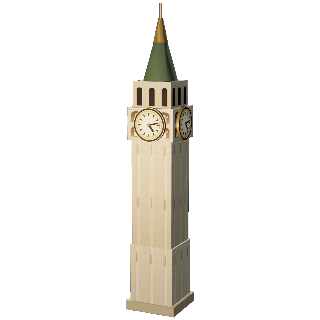
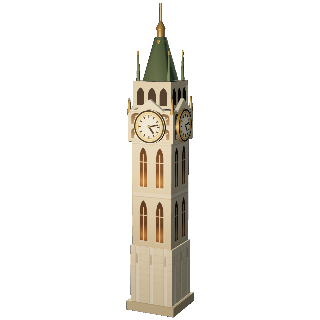
Rebuild Brooklyn Bridge, Big Ben, Coit Tower and the Painted Ladies
Brooklyn Bridge. Seen side-on, what makes it Brooklyn is the web of
diagonal stays fanning from each tower top, and the old model had none.
Now it has four fans (a new 'fan' shape), towers that rise well clear of
the deck, masonry anchorages instead of ramps, and the timber promenade.
The towers are cut right through with their twin pointed Gothic arches,
turned the way the real ones are, with the roadway passing through
them. That is why the arches show as the camera comes round rather than
head-on, and why its goal image is taken from further round (a new
&yaw= on the render route).

Big Ben. Same thirteen pieces, carrying more. Gothic panelling on the
shaft; gablets and gold pinnacles arriving with the clock stage; the
belfry as a real open arcade of pointed arches round a dark core; the
spire's four corner pinnacles; and the Ayrton Light lantern as a lathed
piece.

Coit Tower. Real ribs for the flutes instead of a painted stripe, one
set per lift of the shaft; the two-storey base building; the gallery
stacked flush on the shaft.

Painted Ladies. Each house now arrives with a three-sided bay window, a
cornice band and corner boards in a contrasting trim colour, and a
stoop. Each roof arrives with carved bargeboards and a gable window.
Roofs stay dark slate; the colour lives in the walls and trim, as on
Steiner Street.

Extrude openings can now be pointed ('pointed' arch: two arcs, each
centred on the opposite springing point).
[…]

diff --git a/src/puzzle/landmarks.js b/src/puzzle/landmarks.js
@@ -72,16 +72,39 @@ function eifleg(x0, z0, x1, z1, h, r, c, y0 = 0) {
     c, 'eifleg', { leg: { x0, z0, x1, z1, h, r, y0 }, em: '#ff9d5a', emI: 0.08 });
 }
 
-// Painted Ladies row house: a narrow gabled body with a bay window bulge.
-// `roofI` picks between two slate tones. They are deliberately close: San
-// Francisco's Victorians are painted in every colour but their roofs are all
-// dark slate, so the variety belongs in the walls, not the roofline.
-function ladyHouse(x, body, bay, roofI) {
+// Painted Ladies row house: the body, and the gable roof above it. The body
+// arrives with what makes it a Victorian: a three-sided bay window running
+// up both storeys, a cornice band in the trim colour, and a stoop. The roof
+// arrives with its carved bargeboards and a gable window. The trim colour
+// is half of what "painted" means here — every house is in two or three
+// colours, not one.
+function ladyHouse(x, body, trim, roofI) {
   const roof = ['#403c38', '#4a4640'][roofI];
+  // the bay: a trapezoid extruded upward (rotX turns the extrusion to vertical)
+  const bay = (y, h) => B([0, y, 2.62], [2.1, 0.84, h], body, 'extrude', {
+    rotX: Math.PI / 2, outline: [[-0.5, -0.5], [0.5, -0.5], [0.3, 0.5], [-0.3, 0.5]],
+  });
+  const win = (bx, y) => B([bx, y, 3.06], [0.62, 1.2, 0.05], '#4d6278');
   return [
-    B([x, 4.1, 0], [3.4, 8.2, 4.4], body, 'box', { tex: 'win', tx: { cols: 2, rows: 4 } }),
-    B([x, 5.0, 2.5], [2.1, 5.2, 1.1], bay, 'box', { tex: 'win', tx: { cols: 1, rows: 3 } }),
-    B([x, 10.0, 0], [3.7, 3.6, 4.4], roof, 'prism'),
+    B([x, 4.1, 0], [3.4, 8.2, 4.4], body, 'box', {
+      tex: 'win', tx: { cols: 2, rows: 4 },
+      adorn: [
+        bay(-0.4, 5.6),
+        win(0, 0.9), win(0, -1.9),
+        B([0, 2.35, 3.05], [1.4, 0.18, 0.1], trim),        // bay cornice
+        B([0, 4.0, 0.1], [3.62, 0.34, 4.6], trim),          // cornice band
+        B([-1.72, 0, 2.21], [0.14, 8.2, 0.08], trim),       // corner boards
+        B([1.72, 0, 2.21], [0.14, 8.2, 0.08], trim),
+        B([1.05, -3.75, 2.7], [1.0, 0.7, 1.0], trim),       // stoop
+      ],
+    }),
+    B([x, 10.0, 0], [3.7, 3.6, 4.4], roof, 'prism', {
+      adorn: [
+        B([-0.925, 0, 2.24], [4.05, 0.22, 0.1], trim, 'box', { rotZ: 1.096 }),
+        B([0.925, 0, 2.24], [4.05, 0.22, 0.1], trim, 'box', { rotZ: -1.096 }),
+        B([0, -0.55, 2.23], [0.7, 0.9, 0.06], '#4d6278'),
+      ],
+    }),
   ];
 }
 
@@ -134,25 +157,61 @@ const defs = {
     B([0, 21.3, 0], [0.13, 2.9, 0.13], '#f4f7fb', 'cyl', { metal: 1, em: '#fff2d8', emI: 0.35 }),
   ],
 
-  // Brooklyn Bridge: scaled up ~30%, deck approach ramps reaching the plaza
-  // edges, main catenary cables 3x thicker (suspenders stay thin).
+  // Brooklyn Bridge. Seen side-on, what makes it Brooklyn is the WEB: the
+  // diagonal stays that fan out from each tower top across the main cables,
+  // which the old model did not have at all. The granite towers are cut
+  // right through with their twin pointed Gothic arches — oriented as the
+  // real ones are, with the roadway passing THROUGH them, so they show as
+  // the camera comes round. Towers rise well clear of the deck, and the
+  // cables land on masonry anchorages rather than on ramps into the plaza.
   brooklyn: [
-    B([-10.8, 2.2, 0], [2.5, 3.4, 4.3], '#a89a80', 'box', { tex: 'relief' }),
-    B([10.8, 2.2, 0], [2.5, 3.4, 4.3], '#a89a80', 'box', { tex: 'relief' }),
-    // approach ramps sloping down to the plaza edges
-    B([-14.9, 2.2, 0], [7.0, 0.6, 3.9], '#7d6f5a', 'box', { rotZ: -0.35 }),
-    B([14.9, 2.2, 0], [7.0, 0.6, 3.9], '#7d6f5a', 'box', { rotZ: 0.35 }),
-    B([-7.4, 3.4, 0], [7.2, 0.6, 3.9], '#867860'),
-    B([0, 3.4, 0], [8.1, 0.6, 3.9], '#93846c'),
-    B([7.4, 3.4, 0], [7.2, 0.6, 3.9], '#867860'),
-    B([-6.0, 7.0, 0], [3.3, 8.6, 4.3], '#b2a488', 'box', { tex: 'gothic' }),
-    B([6.0, 7.0, 0], [3.3, 8.6, 4.3], '#b2a488', 'box', { tex: 'gothic' }),
-    B([-6.0, 11.6, 0], [3.8, 0.65, 4.8], '#c4b294'),
-    B([6.0, 11.6, 0], [3.8, 0.65, 4.8], '#c4b294'),
-    B([0, 3.5, 1.7], [22.6, 0.7, 0.3], '#efeadb', 'cable',
-      { sortY: 12, cable: { towerX: 6.0, topY: 11.2, midY: 4.35, endX: 11.2, endY: 3.5, deckY: 3.7, hangers: 11, r: 0.27 } }),
-    B([0, 3.5, -1.7], [22.6, 0.7, 0.3], '#efeadb', 'cable',
-      { sortY: 12, cable: { towerX: 6.0, topY: 11.2, midY: 4.35, endX: 11.2, endY: 3.5, deckY: 3.7, hangers: 11, r: 0.27 } }),
+    // tower foundations and the two masonry anchorages
+    B([-6.2, 0.6, 0], [3.4, 1.2, 5.4], '#9d917b', 'box', { tex: 'relief' }),
+    B([6.2, 0.6, 0], [3.4, 1.2, 5.4], '#9d917b', 'box', { tex: 'relief' }),
+    B([-12.6, 2.1, 0], [3.2, 4.2, 5.0], '#a89a80', 'box', { tex: 'ashlar' }),
+    B([12.6, 2.1, 0], [3.2, 4.2, 5.0], '#a89a80', 'box', { tex: 'ashlar' }),
+    // the deck, with the raised timber promenade down its middle
+    B([-8.9, 3.7, 0], [5.4, 0.5, 4.0], '#6f675d'),
+    B([8.9, 3.7, 0], [5.4, 0.5, 4.0], '#6f675d'),
+    B([0, 3.7, 0], [9.0, 0.5, 4.0], '#766d62', 'box', {
+      adorn: [B([0, 0.42, 0], [9.0, 0.16, 1.2], '#b08a5c')],
+    }),
+    // granite towers: an extruded face with two pointed arches cut through,
+    // turned so the roadway runs through the arches
+    ...[-6.2, 6.2].map((x) => B([x, 6.9, 0], [4.8, 11.6, 2.8], '#b9aa8e', 'extrude', {
+      rotY: Math.PI / 2,
+      outline: [[-0.5, -0.5], [0.5, -0.5], [0.5, 0.5], [-0.5, 0.5]],
+      holes: [
+        { x: -0.22, y: -0.07, w: 0.25, h: 0.4, arch: 'pointed' },
+        { x: 0.22, y: -0.07, w: 0.25, h: 0.4, arch: 'pointed' },
+      ],
+      adorn: [
+        // cornice and crown across the top of the tower
+        B([0, 5.95, 0], [5.0, 0.45, 3.0], '#c9ba9c'),
+        B([0, 6.35, 0], [4.6, 0.4, 2.6], '#b3a488'),
+        // the narrow faces are what the camera sees side-on. A tall sunk
+        // panel and three string courses stop them reading as blank slabs.
+        // (Local x is across the bridge here: the tower is turned 90deg.)
+        ...[-1, 1].flatMap((sd) => [
+          B([sd * 2.42, 0.8, 0], [0.06, 7.8, 1.5], '#9e9078'),
+          ...[-3.9, -0.9, 3.9].map((y) => B([sd * 2.43, y, 0], [0.08, 0.26, 2.8], '#cbbc9e')),
+        ]),
+      ],
+    })),
+    // the four main cables, hung after the towers
+    B([0, 3.9, 1.7], [25.2, 0.7, 0.3], '#e6e0d0', 'cable',
+      { sortY: 12.5, cable: { towerX: 6.2, topY: 12.9, midY: 4.6, endX: 12.4, endY: 4.0, deckY: 4.0, hangers: 13, r: 0.2 } }),
+    B([0, 3.9, -1.7], [25.2, 0.7, 0.3], '#e6e0d0', 'cable',
+      { sortY: 12.5, cable: { towerX: 6.2, topY: 12.9, midY: 4.6, endX: 12.4, endY: 4.0, deckY: 4.0, hangers: 13, r: 0.2 } }),
+    // the web: stays fanning from each tower top, inward and outward
+    B([-3.4, 8.3, 0], [5.8, 9.2, 3.6], '#ddd6c4', 'fan',
+      { sortY: 13, fan: { ax: -2.8, ay: 4.4, x0: -2.0, x1: 2.6, deckY: -4.4, n: 6, z: 1.7, r: 0.06 } }),
+    B([3.4, 8.3, 0], [5.8, 9.2, 3.6], '#ddd6c4', 'fan',
+      { sortY: 13, fan: { ax: 2.8, ay: 4.4, x0: 2.0, x1: -2.6, deckY: -4.4, n: 6, z: 1.7, r: 0.06 } }),
+    B([-9.2, 8.3, 0], [5.8, 9.2, 3.6], '#ddd6c4', 'fan',
+      { sortY: 13, fan: { ax: 3.0, ay: 4.4, x0: 2.2, x1: -2.4, deckY: -4.4, n: 6, z: 1.7, r: 0.06 } }),
+    B([9.2, 8.3, 0], [5.8, 9.2, 3.6], '#ddd6c4', 'fan',
+      { sortY: 13, fan: { ax: -3.0, ay: 4.4, x0: -2.2, x1: 2.4, deckY: -4.4, n: 6, z: 1.7, r: 0.06 } }),
   ],
 
   // ================= PARIS =================
@@ -260,23 +319,56 @@ const defs = {
   ],
 
   // ================= LONDON =================
-  // Big Ben: limestone ashlar panels with gothic ribs, glowing warm-ivory
-  // clock faces with bold hands and a gold ring, stretched belfry.
+  // Big Ben (the Elizabeth Tower). The pieces are the same thirteen; what
+  // changed is what they carry. The shaft is Gothic panelling rather than
+  // plain ashlar above the base; each clock stage arrives with its gablets
+  // and corner pinnacles; the belfry is a real open arcade of pointed arches
+  // round a dark core; and the iron spire carries its four corner pinnacles
+  // and the Ayrton Light lantern below the finial.
   bigben: [
     B([0, 0.35, 0], [4.0, 0.7, 4.0], '#b6ab8d'),                 // plinth
     B([0, 2.9, 0], [3.5, 4.4, 3.5], '#d4c9a8', 'box', { tex: 'ashlar' }),
-    B([0, 7.2, 0], [3.25, 4.2, 3.25], '#cbbf9e', 'box', { tex: 'ashlar' }),
-    B([0, 11.3, 0], [3.25, 4.0, 3.25], '#d4c9a8', 'box', { tex: 'ashlar' }),
-    B([0, 14.35, 0], [3.7, 2.4, 3.7], '#ded3b0', 'box', { tex: 'relief', em: '#ffd9a0', emI: 0.14 }),
+    B([0, 7.2, 0], [3.25, 4.2, 3.25], '#cbbf9e', 'box', { tex: 'gothic' }),
+    B([0, 11.3, 0], [3.25, 4.0, 3.25], '#d4c9a8', 'box', { tex: 'gothic' }),
+    B([0, 14.35, 0], [3.7, 2.4, 3.7], '#ded3b0', 'box', {
+      tex: 'relief', em: '#ffd9a0', emI: 0.14,
+      adorn: [
+        // a gablet over each clock face
+        B([0, 1.55, 1.78], [2.4, 0.9, 0.3], '#e2d7b4', 'prism'),
+        B([0, 1.55, -1.78], [2.4, 0.9, 0.3], '#e2d7b4', 'prism'),
+        B([1.78, 1.55, 0], [2.4, 0.9, 0.3], '#e2d7b4', 'prism', { rotY: Math.PI / 2 }),
+        B([-1.78, 1.55, 0], [2.4, 0.9, 0.3], '#e2d7b4', 'prism', { rotY: Math.PI / 2 }),
+        // corner pinnacles, gold-tipped
+        ...[[1, 1], [1, -1], [-1, 1], [-1, -1]].map(([a, b]) => B([a * 1.75, 1.5, b * 1.75], [0.34, 1.1, 0.34], '#cfae6c', 'cone4', { metal: 1 })),
+      ],
+    }),
     B([0, 14.35, 1.93], [2.55, 2.55, 0.22], '#f8f1da', 'clock'),
     B([0, 14.35, -1.93], [2.55, 2.55, 0.22], '#f8f1da', 'clock'),
     B([1.93, 14.35, 0], [2.55, 2.55, 0.22], '#f8f1da', 'clock', { rotY: Math.PI / 2 }),
     B([-1.93, 14.35, 0], [2.55, 2.55, 0.22], '#f8f1da', 'clock', { rotY: Math.PI / 2 }),
-    // belfry stretched ~20%
-    B([0, 16.5, 0], [3.05, 1.95, 3.05], '#cbbf9e', 'box', { tex: 'arch', tx: { n: 3 } }),
-    B([0, 19.05, 0], [2.75, 3.2, 2.75], '#5e7258', 'cone4'),
-    B([0, 21.15, 0], [1.15, 1.75, 1.15], '#cfae6c', 'cone4', { metal: 1, em: '#ffd9a0', emI: 0.45 }),
-    B([0, 22.5, 0], [0.18, 1.3, 0.18], '#e6d29e', 'cyl', { metal: 1, em: '#ffd9a0', emI: 0.55 }),
+    // belfry: a dark core behind four arcaded screens of pointed arches
+    B([0, 16.65, 0], [3.05, 1.95, 3.05], '#3d3a35', 'box', {
+      adorn: [
+        ...[[0, 1.46, 0], [0, -1.46, 0], [1.46, 0, Math.PI / 2], [-1.46, 0, Math.PI / 2]].map(([x, z, r]) =>
+          B([x, 0, z], [3.1, 1.95, 0.14], '#d4c9a8', 'extrude', {
+            rotY: r,
+            outline: [[-0.5, -0.5], [0.5, -0.5], [0.5, 0.5], [-0.5, 0.5]],
+            holes: [-0.3, 0, 0.3].map((hx) => ({ x: hx, y: -0.06, w: 0.2, h: 0.66, arch: 'pointed' })),
+          })),
+      ],
+    }),
+    // cast-iron spire, with its four corner pinnacles
+    B([0, 19.25, 0], [2.85, 3.2, 2.85], '#5a6d55', 'cone4', {
+      adorn: [[1, 1], [1, -1], [-1, 1], [-1, -1]].map(([a, b]) => B([a * 1.25, -0.6, b * 1.25], [0.3, 2.0, 0.3], '#6f8568', 'cone4', {
+        adorn: [B([0, 1.05, 0], [0.12, 0.3, 0.12], '#cfae6c', 'cyl', { metal: 1 })],
+      })),
+    }),
+    // the Ayrton Light: a small lantern, lit when Parliament sits
+    B([0, 21.2, 0], [1.1, 1.8, 1.1], '#cfae6c', 'lathe', {
+      profile: [[0.8, 0], [0.8, 0.18], [0.55, 0.22], [0.55, 0.6], [0.72, 0.64], [0.3, 0.88], [0.08, 1]],
+      seg: 8, metal: 1, em: '#ffd9a0', emI: 0.5,
+    }),
+    B([0, 22.7, 0], [0.18, 1.3, 0.18], '#e6d29e', 'cyl', { metal: 1, em: '#ffd9a0', emI: 0.55 }),
   ],
 
   // Tower Bridge: pale stone towers with corner turrets, saturated
@@ -434,43 +526,47 @@ const defs = {
       { sortY: 19, cable: { towerX: 6.4, topY: 17.2, midY: 5.0, endX: 13.4, endY: 3.9, deckY: 4.0, hangers: 13, r: 0.17 } }),
   ],
 
-  // Coit Tower: a plain unpainted-concrete fluted column. The real thing is
-  // pale grey-cream, not white, and is NOT shaped like a fire-hose nozzle —
-  // that is a myth, so the shaft stays a clean taper. 'strip' gives the
-  // fluting; 'archcut' punches the observation-deck arches through.
+  // Coit Tower: a plain unpainted-concrete fluted column, pale grey-cream,
+  // and NOT shaped like a fire-hose nozzle — that is a myth. The flutes are
+  // real ribs now, arriving with each lift of the shaft, not a painted
+  // stripe; the gallery is a ring of tall round-headed openings; and it
+  // stands on the two-storey base building where the 1934 murals are.
   coit: [
-    B([0, 0.4, 0], [5.2, 0.8, 5.2], '#b7b1a4'),
-    B([0, 1.6, 0], [4.2, 1.6, 4.2], '#c3bdae', 'cyl'),
-    B([0, 2.6, 2.0], [1.3, 2.0, 0.5], '#a8a294', 'box', { tex: 'arch' }),
-    B([0, 3.6, 0], [3.5, 2.2, 3.5], '#d2ccbd', 'cyl', { tex: 'strip' }),
-    B([0, 5.8, 0], [3.4, 2.2, 3.4], '#d4cec0', 'cyl', { tex: 'strip' }),
-    B([0, 8.0, 0], [3.3, 2.2, 3.3], '#d2ccbd', 'cyl', { tex: 'strip' }),
-    B([0, 10.2, 0], [3.2, 2.2, 3.2], '#d4cec0', 'cyl', { tex: 'strip' }),
-    B([0, 12.4, 0], [3.05, 2.2, 3.05], '#d2ccbd', 'cyl', { tex: 'strip' }),
-    B([0, 14.6, 0], [2.9, 2.2, 2.9], '#d4cec0', 'cyl', { tex: 'strip' }),
-    B([0, 16.8, 0], [2.8, 2.2, 2.8], '#d2ccbd', 'cyl', { tex: 'strip' }),
-    B([0, 18.2, 0], [3.2, 0.5, 3.2], '#c9c3b4', 'cyl'),
-    B([0, 19.6, 0], [3.3, 2.4, 3.3], '#dcd6c6', 'cyl', { tex: 'archcut' }),
-    B([0, 21.1, 0], [2.9, 0.6, 2.9], '#c9c3b4', 'cyl'),
-    B([0, 21.9, 0], [2.3, 0.9, 2.3], '#d4cec0', 'cyl'),
-    B([0, 22.9, 0], [2.0, 1.1, 2.0], '#dcd6c6', 'dome'),
-    B([0, 24.2, 0], [0.13, 2.4, 0.13], '#efe9da', 'cyl', { metal: 1 }),
-    // hillside lamps either side of the entrance path
-    B([-2.6, 1.5, 2.6], [0.16, 1.8, 0.16], '#8e887c', 'cyl', { em: '#ffe6b0', emI: 0.5 }),
-    B([2.6, 1.5, 2.6], [0.16, 1.8, 0.16], '#8e887c', 'cyl', { em: '#ffe6b0', emI: 0.5 }),
+    // the base building, with its arched entrance
+    B([0, 1.1, 0], [6.6, 2.2, 6.6], '#c3bdae', 'box', {
+      tex: 'arch', tx: { n: 5 },
+      adorn: [B([0, 1.25, 0], [7.0, 0.3, 7.0], '#b7b1a4')],
+    }),
+    // the fluted shaft, in seven lifts, each carrying its own ribs
+    ...[0, 1, 2, 3, 4, 5, 6].map((i) => {
+      const w = 3.5 - i * 0.1;
+      return B([0, 3.3 + i * 2.2, 0], [w, 2.2, w], i % 2 ? '#d4cec0' : '#d2ccbd', 'cyl', {
+        adorn: ring(0, 0, w / 2 + 0.02, 16, [0.12, 2.2, 0.16], '#c6c0b1'),
+      });
+    }),
+    // corbel, then the observation gallery of tall arched openings
+    // stacked flush: the shaft's last lift tops out at 17.7
+    B([0, 17.95, 0], [3.2, 0.5, 3.2], '#c9c3b4', 'cyl'),
+    B([0, 19.4, 0], [3.3, 2.4, 3.3], '#dcd6c6', 'cyl', { tex: 'archcut' }),
+    B([0, 20.9, 0], [2.9, 0.6, 2.9], '#c9c3b4', 'cyl'),
+    B([0, 21.65, 0], [2.3, 0.9, 2.3], '#d4cec0', 'cyl'),
+    B([0, 22.1, 0], [2.0, 1.1, 2.0], '#dcd6c6', 'dome'),
+    B([0, 24.3, 0], [0.13, 2.4, 0.13], '#efe9da', 'cyl', { metal: 1 }),
   ],
 
   // Painted Ladies: seven narrow houses shoulder to shoulder, each its own
   // colour, each with a bay window and a steep gable. The jagged roofline is
   // the whole picture; the colour variety is in the walls, not the roofs.
   paintedladies: [
-    ...ladyHouse(-10.8, '#d8788c', '#e9a0ae', 0),
-    ...ladyHouse(-7.2, '#e8c274', '#f4dca6', 1),
-    ...ladyHouse(-3.6, '#9fc4a8', '#c6ddcb', 0),
-    ...ladyHouse(0, '#8fb4d4', '#bcd4e6', 1),
-    ...ladyHouse(3.6, '#c9a8cc', '#e0cbe2', 0),
-    ...ladyHouse(7.2, '#e2a07c', '#f0c6ad', 1),
-    ...ladyHouse(10.8, '#cfc4b2', '#e6dece', 0),
+    // body and trim colours in the spirit of Steiner Street: each house a
+    // pastel with a contrasting trim, no two neighbours alike
+    ...ladyHouse(-10.8, '#d8788c', '#f4ecd8', 0),
+    ...ladyHouse(-7.2, '#e8c274', '#7a3a4a', 1),
+    ...ladyHouse(-3.6, '#9fc4a8', '#f4ecd8', 0),
+    ...ladyHouse(0, '#8fb4d4', '#e8c274', 1),
+    ...ladyHouse(3.6, '#c9a8cc', '#f4ecd8', 0),
+    ...ladyHouse(7.2, '#e2a07c', '#3f5a6a', 1),
+    ...ladyHouse(10.8, '#cfc4b2', '#8a3a3a', 0),
   ],
 };
 

diff --git a/src/puzzle/puzzle.js b/src/puzzle/puzzle.js
@@ -1277,13 +1277,22 @@ function makeBlockMesh(def, isGhost = false, isChild = false) {
       // cut right through it — real arches you can see the sky through, stepped
       // Art Deco profiles, gables with carved trim. `outline` is [x, y] pairs
       // as fractions of w and h, centred on 0; `holes` are
-      // {x, y, w, h, arch} in the same fractions, x/y being the hole's centre,
-      // and `arch: true` rounds the top into a semicircle.
+      // {x, y, w, h, arch} in the same fractions, x/y being the hole's centre.
+      // `arch: true` rounds the top into a semicircle; `arch: 'pointed'` gives
+      // an equilateral Gothic arch (two arcs, each centred on the opposite
+      // springing point), as on Brooklyn Bridge and the Palace of Westminster.
       const shape = new THREE.Shape(def.outline.map(([x, y]) => new THREE.Vector2(x * w, y * h)));
       for (const o of def.holes || []) {
         const hw = (o.w * w) / 2, cx = o.x * w, y0 = (o.y - o.h / 2) * h, y1 = (o.y + o.h / 2) * h;
         const path = new THREE.Path();
-        if (o.arch) {
+        if (o.arch === 'pointed') {
+          const spring = y1 - Math.sqrt(3) * hw;   // apex sits sqrt(3)*hw above the springing line
+          path.moveTo(cx - hw, y0); path.lineTo(cx + hw, y0);
+          path.lineTo(cx + hw, spring);
+          path.absarc(cx - hw, spring, 2 * hw, 0, Math.PI / 3, false);
+          path.absarc(cx + hw, spring, 2 * hw, 2 * Math.PI / 3, Math.PI, false);
+          path.lineTo(cx - hw, y0);
+        } else if (o.arch) {
           const spring = y1 - hw;                  // where the semicircle begins
           path.moveTo(cx - hw, y0); path.lineTo(cx + hw, y0);
           path.lineTo(cx + hw, spring);
@@ -1297,6 +1306,26 @@ function makeBlockMesh(def, isGhost = false, isChild = false) {
       }
       geo = new THREE.ExtrudeGeometry(shape, { depth: d, bevelEnabled: false, curveSegments: 10 });
       geo.translate(0, 0, -d / 2);
+      break;
+    }
+    case 'fan': {
+      // Stay cables radiating from one point down to a run of points on the
+      // deck, doubled either side of the bridge: Brooklyn Bridge's web.
+      // fan: { ax, ay } apex, { x0, x1, deckY } deck run, n cables, z offset,
+      // r thickness — all relative to the block centre.
+      const f = def.fan;
+      out = new THREE.Group();
+      for (const zz of [f.z, -f.z]) {
+        for (let i = 0; i < f.n; i++) {
+          const x = f.x0 + (i / Math.max(1, f.n - 1)) * (f.x1 - f.x0);
+          const dx = x - f.ax, dy = f.deckY - f.ay;
+          const len = Math.hypot(dx, dy);
+          const stay = new THREE.Mesh(new THREE.BoxGeometry(f.r || 0.05, len, f.r || 0.05), mat);
+          stay.position.set((f.ax + x) / 2, (f.ay + f.deckY) / 2, zz);
+          stay.rotation.z = Math.atan2(dx, dy) * -1;
+          out.add(stay);
+        }
+      }
       break;
     }
     case 'rock': {

diff --git a/src/main.js b/src/main.js
@@ -1317,7 +1317,11 @@ if (DEBUG_HOOKS && q.get('ui')) {
     camera.fov = 30; camera.updateProjectionMatrix();
     const fit = Math.max(sz.y, sz.x / camera.aspect, sz.z / camera.aspect);
     const d = (fit / 2) / Math.tan(THREE.MathUtils.degToRad(camera.fov) / 2) * 1.25;
-    camera.position.set(c.x + d * 0.42, c.y + d * 0.16, c.z + d * 0.9);
+    // &yaw= swings the camera round for monuments whose defining feature
+    // faces sideways (Brooklyn's arches face along the bridge, not at the
+    // default three-quarter view).
+    const yaw = parseFloat(q.get('yaw')) || 0.44;
+    camera.position.set(c.x + Math.sin(yaw) * d, c.y + d * 0.16, c.z + Math.cos(yaw) * d);
     camera.lookAt(c);
     showScreen(null);
     hud.classList.remove('on');
